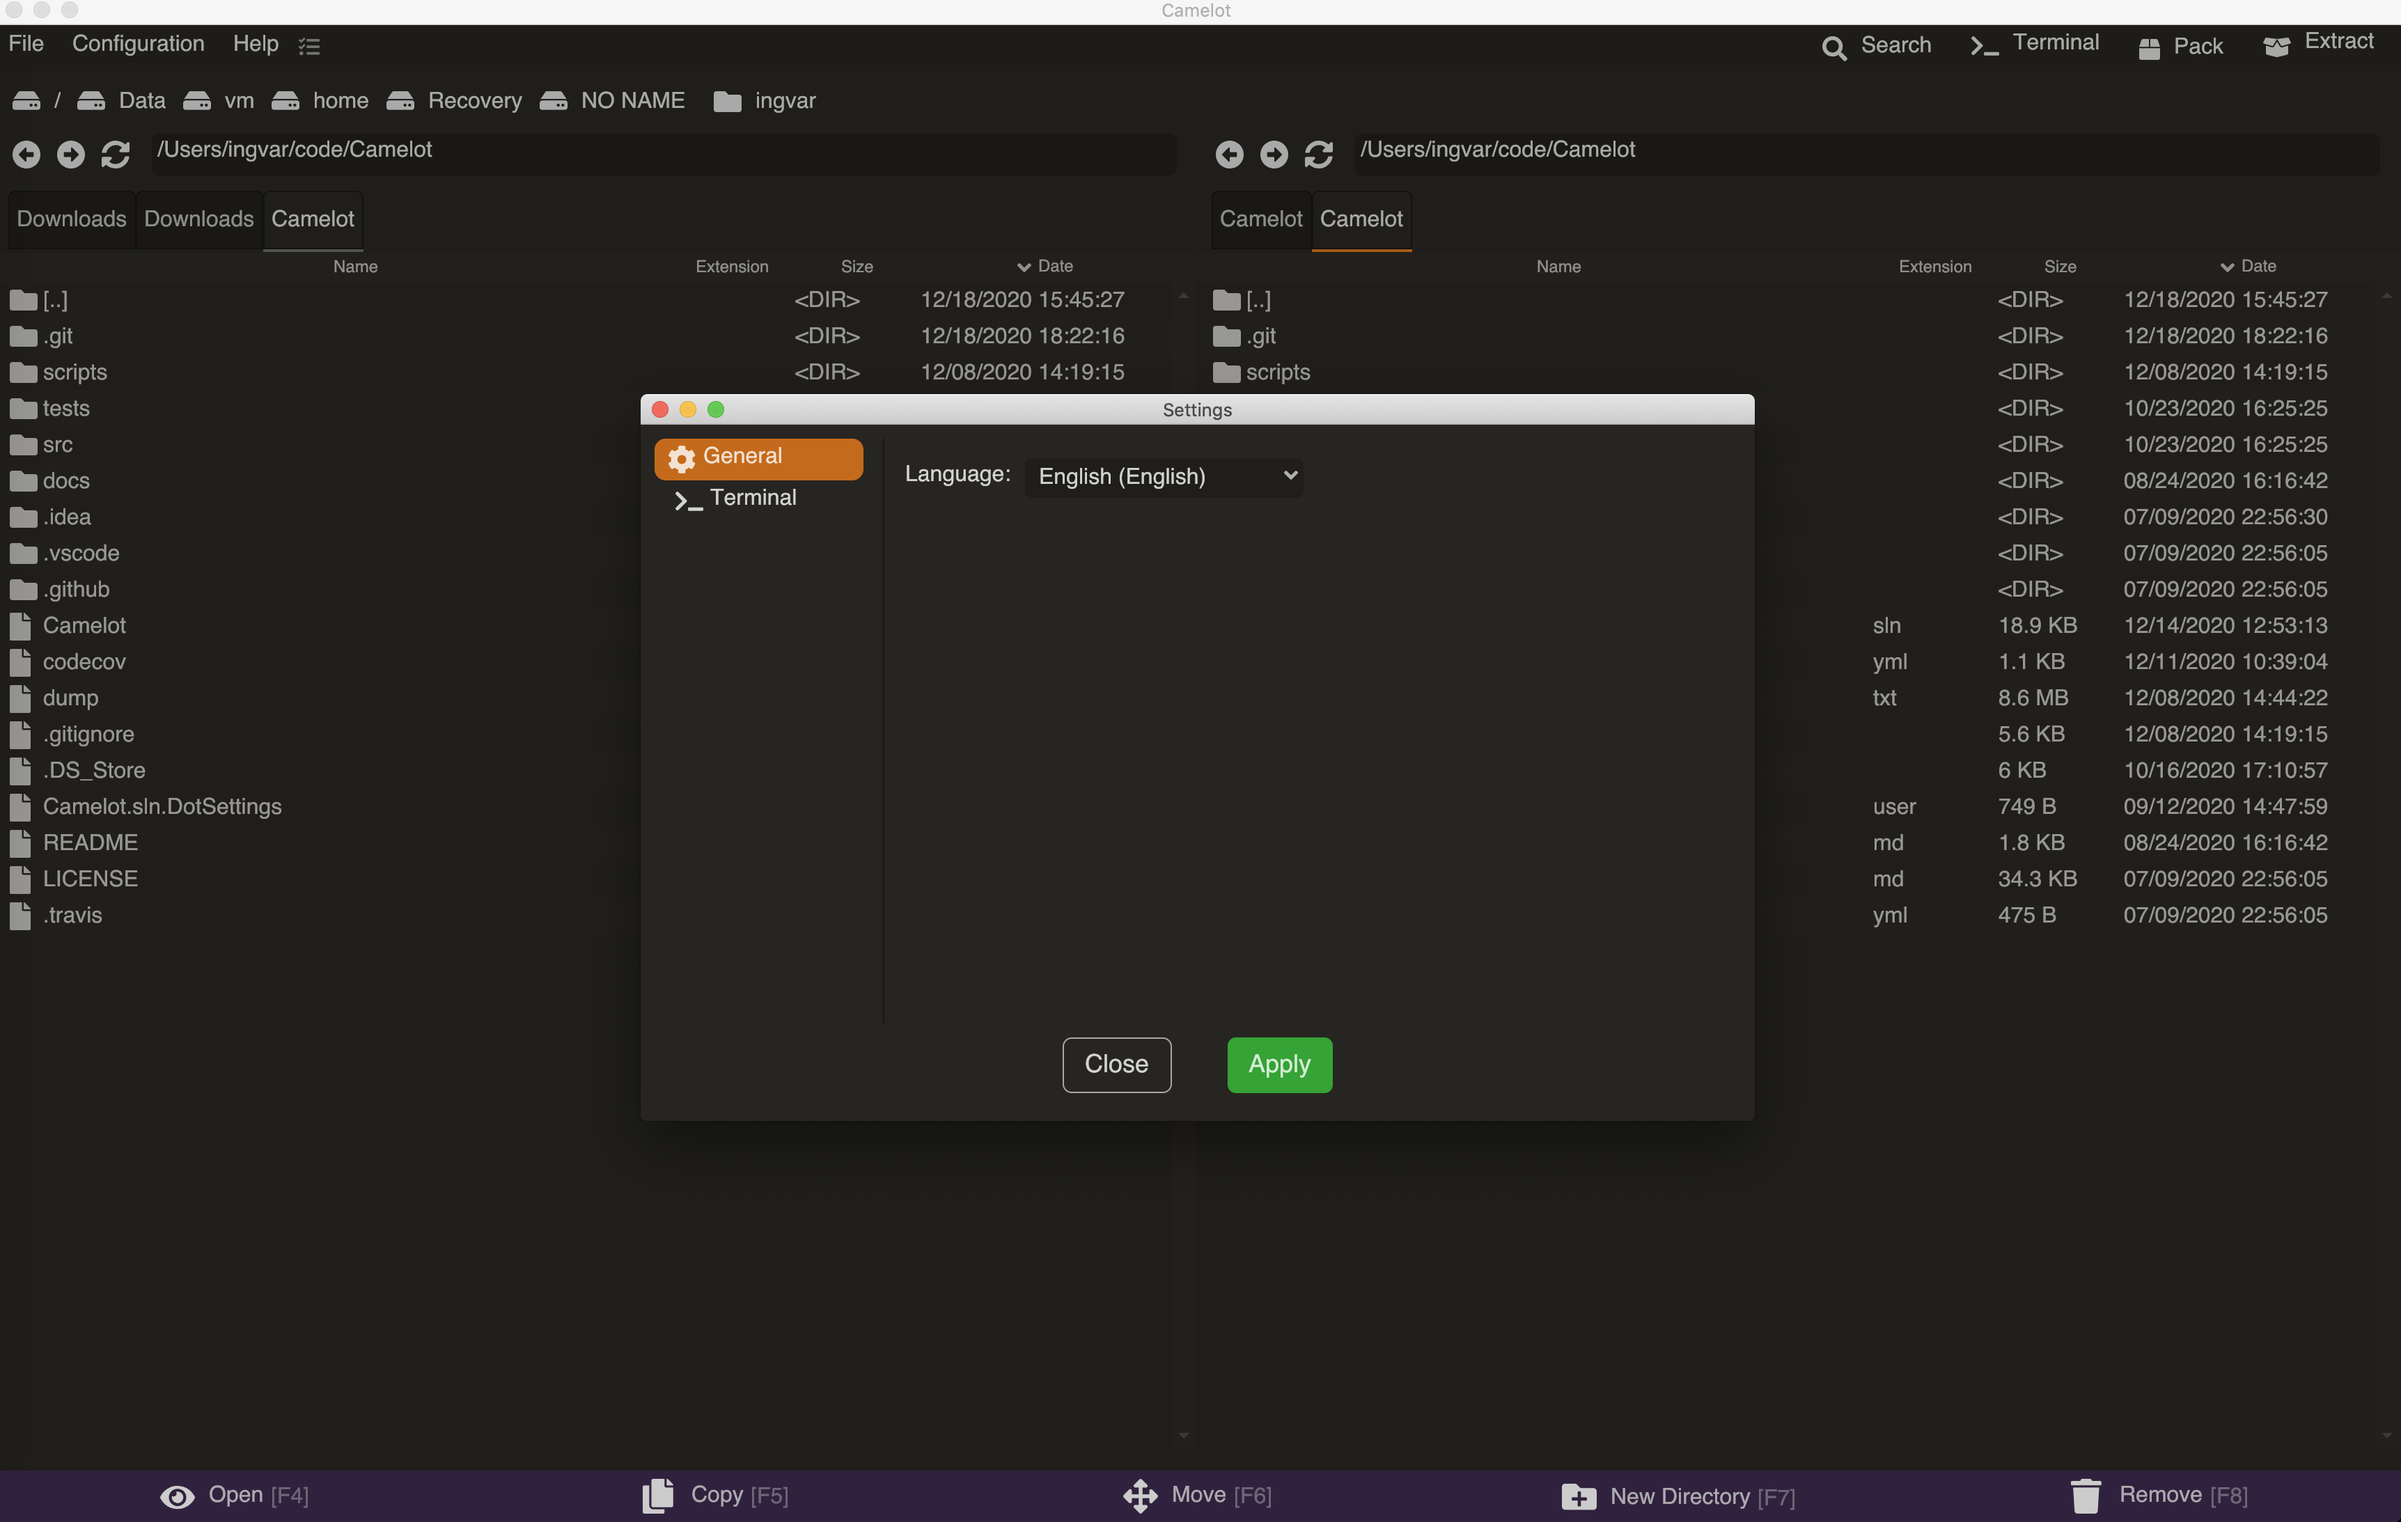
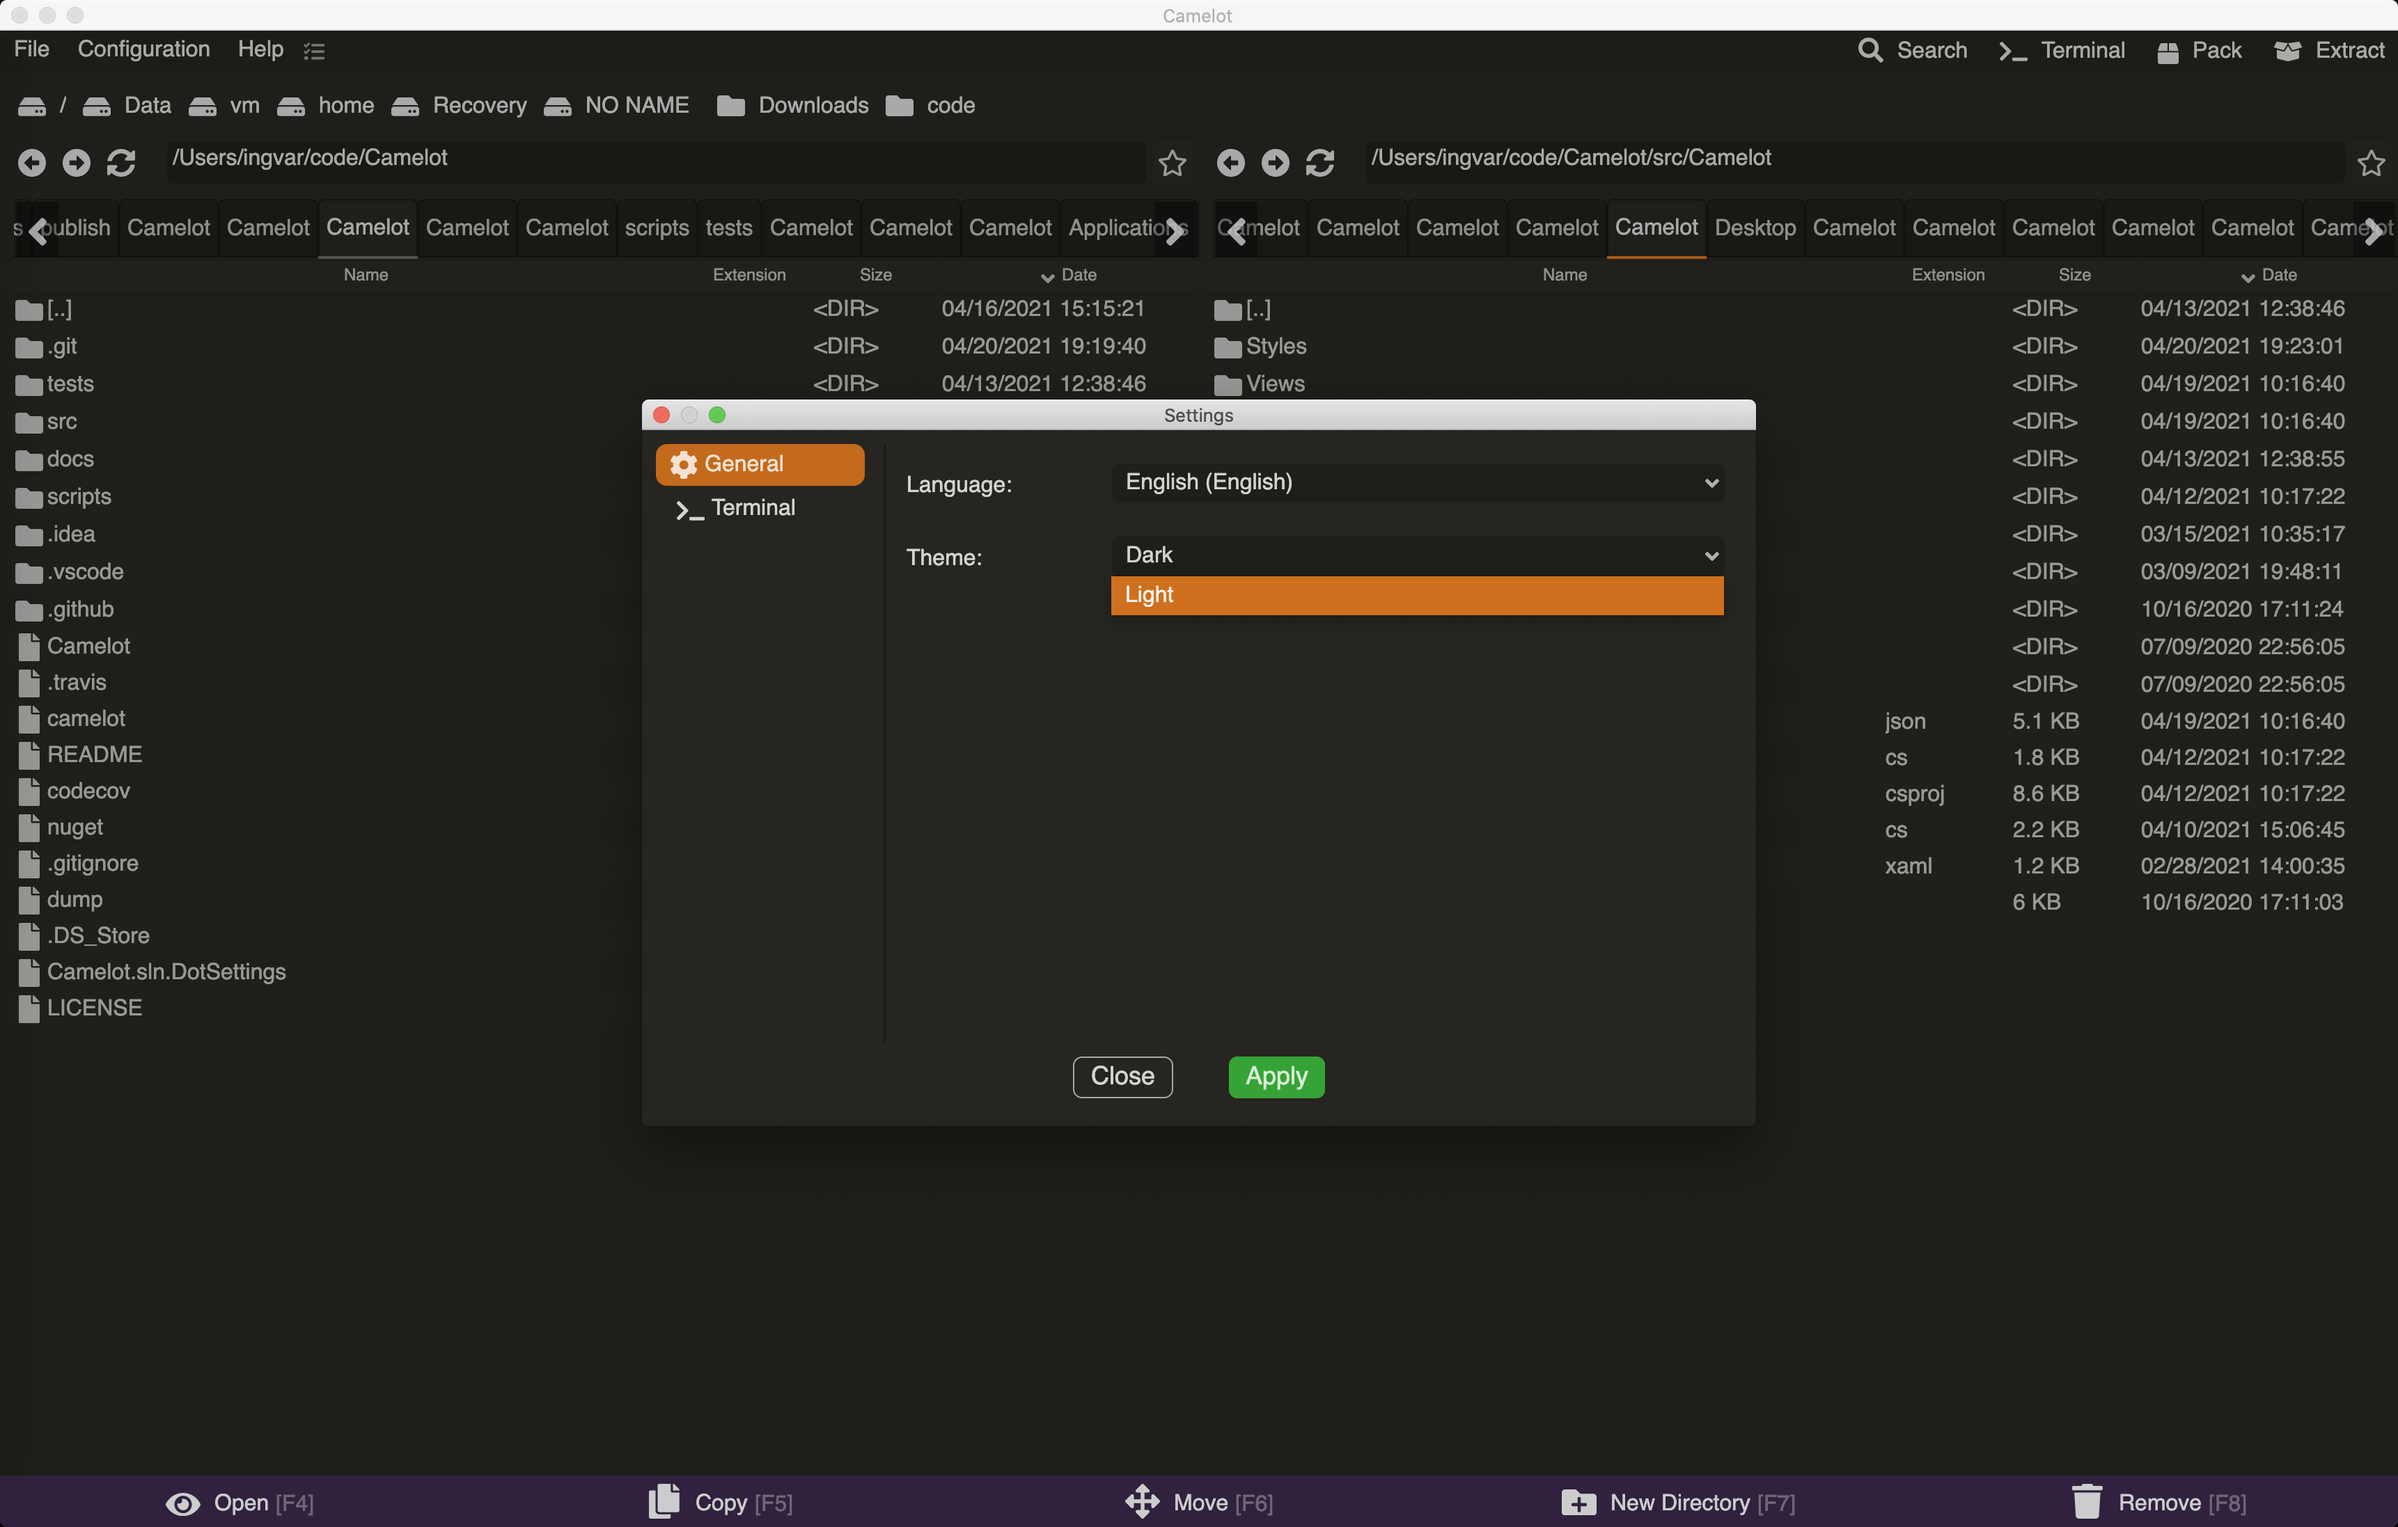
Fixes for macos + new screenshot

diff --git a/src/Camelot/Styles/Common.xaml b/src/Camelot/Styles/Common.xaml
@@ -14,10 +14,15 @@
         <Setter Property="Cursor" Value="Hand" />
     </Style>
 
+    <Style Selector="TextBlock">
+        <Setter Property="VerticalAlignment" Value="Center" />
+    </Style>
+
     <Style Selector="TextBox">
         <Setter Property="FontSize" Value="20" />
         <Setter Property="Background" Value="{DynamicResource ThemeControlLowBrush}" />
         <Setter Property="BorderThickness" Value="0" />
+        <Setter Property="VerticalAlignment" Value="Center" />
     </Style>
 
     <Style Selector="TextBox:error">

diff --git a/src/Camelot/Views/Main/Controls/Tabs/TabView.xaml.cs b/src/Camelot/Views/Main/Controls/Tabs/TabView.xaml.cs
@@ -11,7 +11,7 @@ namespace Camelot.Views.Main.Controls.Tabs
 {
     public class TabView : UserControl
     {
-        private const int DragAndDropDelay = 200;
+        private const int DragAndDropDelay = 300;
         private const string DataFormat = "Tab";
 
         private Grid Grid => this.Find<Grid>("TabGrid");

diff --git a/src/Camelot/Views/Main/FilesPanelView.xaml.cs b/src/Camelot/Views/Main/FilesPanelView.xaml.cs
@@ -19,7 +19,7 @@ namespace Camelot.Views.Main
 {
     public class FilesPanelView : UserControl
     {
-        private const int DragAndDropDelay = 200;
+        private const int DragAndDropDelay = 300;
 
         private bool _isCellPressed;
 
